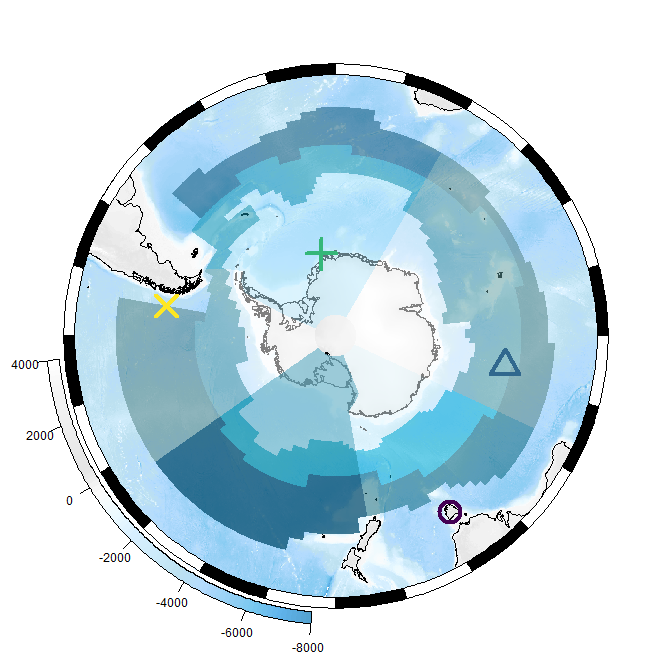
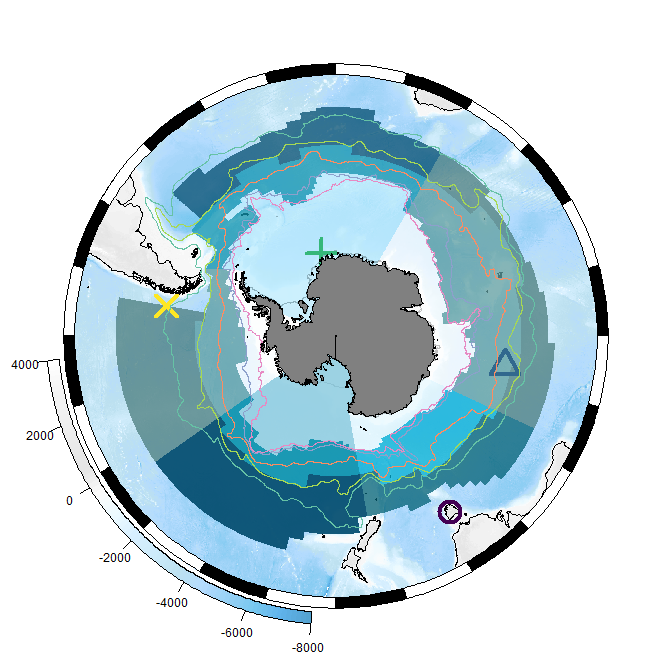
readme

Changed region(s): [[0.1562, 0.1562, 0.8438, 0.8125], [0.2188, 0.3125, 0.25, 0.3438]]

diff --git a/README.md b/README.md
@@ -95,7 +95,7 @@ library(SOmap)
 #>     select
 SOmap(trim = -32) ## set up a polar map
 ## set overlay to half-transparent
-SOplot(st_geometry(measo), border = NA, col = scales::alpha(measo$fill, 0.5))  ## no need to worry about the projection
+SOplot(st_geometry(measo), border = NA, col = scales::alpha(measo$fill, 0.75))  ## no need to worry about the projection
 #> Warning in if (class(x) == "character") {: the condition has length > 1 and only
 #> the first element will be used
 #> Warning in if (class(x) != "CRS") {: the condition has length > 1 and only the
@@ -108,6 +108,12 @@ ll <- cbind(lon = c(147, 100, -10, -80),
 SOplot(ll, pch = 1:4, col = viridis::viridis(4), cex = 3, lwd = 4)
 #> Warning in SOproj(x = x, y = y, target = target, source = source, ...): assuming
 #> generic data is in longitude,latitude
+
+## other objects work too (sf, raster, sp)
+SOplot(SOmap_data$fronts_park)
+#> Warning in plot.sf(SObj, add = add, ...): ignoring all but the first attribute
+SOplot(coast, col = "#808080")
+#> Warning in plot.sf(SObj, add = add, ...): ignoring all but the first attribute
 ```
 
 <img src="man/figures/README-SOmap-1.png" width="100%" />
